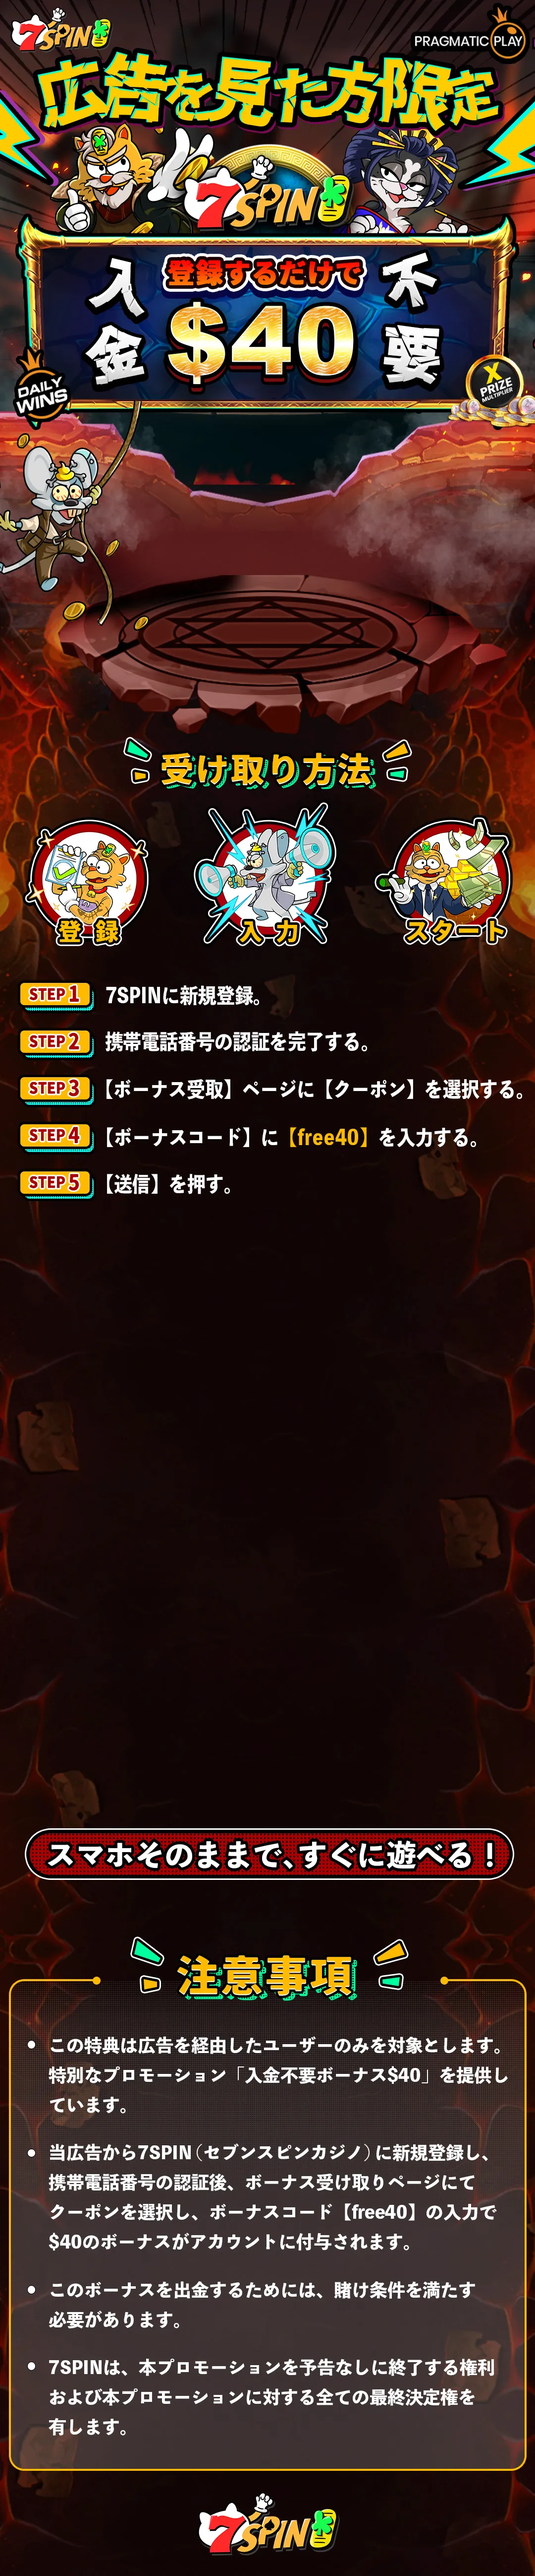
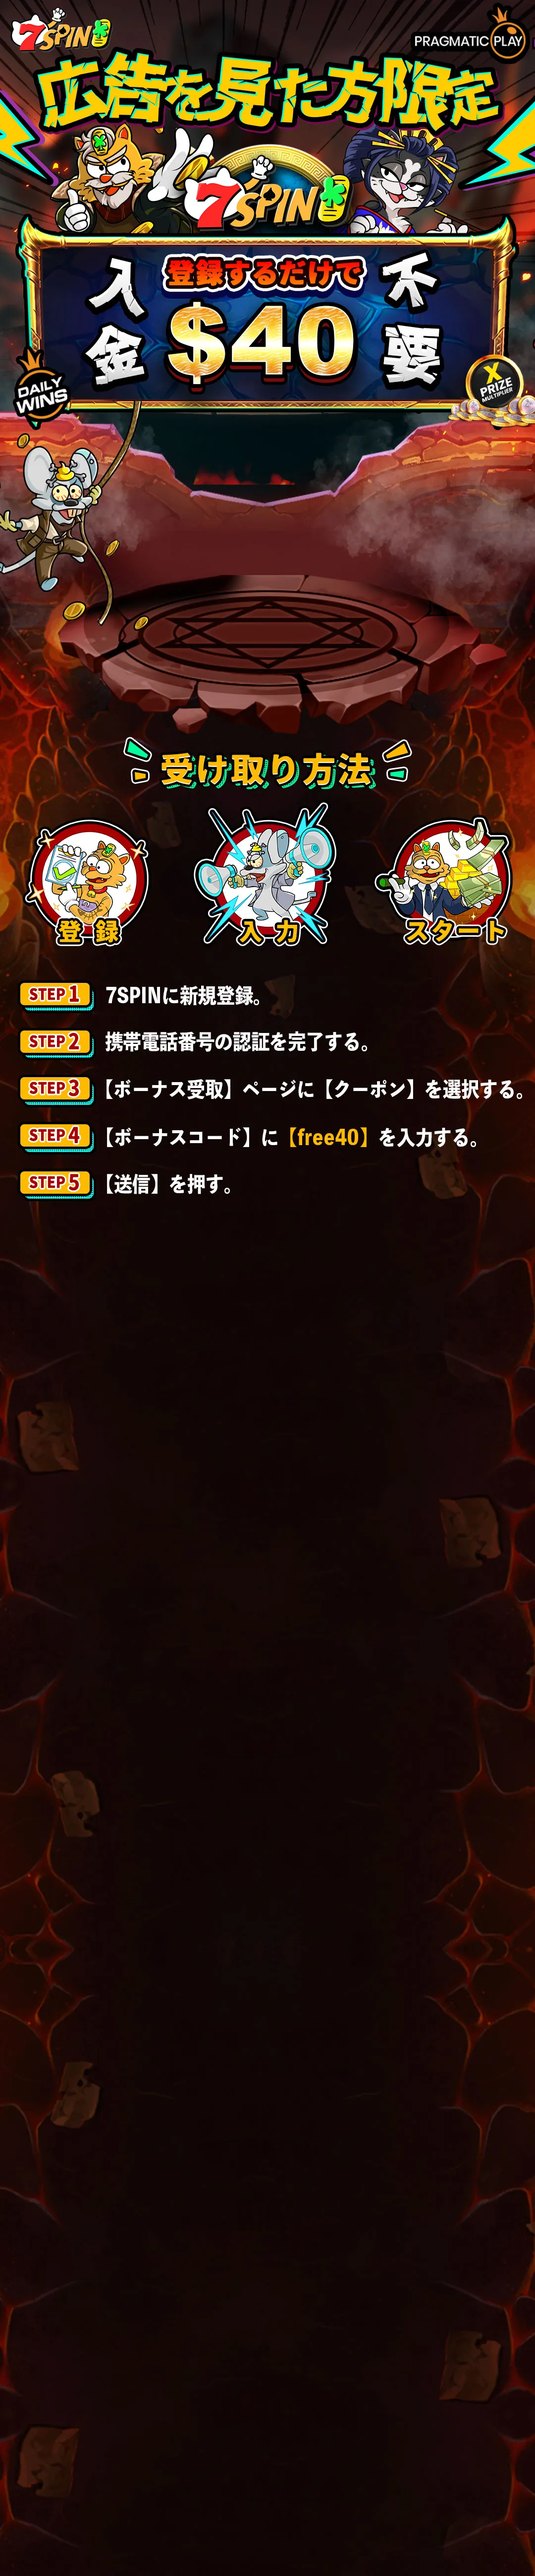
火山版 - 手機修正

Changed region(s): [[0.0, 0.6864, 1.0, 0.9985]]

diff --git a/winpera/av.@/20231019/index.html b/winpera/av.@/20231019/index.html
@@ -1,0 +1,134 @@
+<!DOCTYPE html>
+<html lang="en">
+<head>
+    <meta charset="UTF-8">
+    <meta http-equiv="X-UA-Compatible" content="IE=edge">
+    <meta name="viewport" content="width=devhttps://av.winpera.com/20230302/#post-8https://av.winpera.com/20230302/#post-8ice-width, initial-scale=1.0">
+    <link rel="icon" href="../images/photo_2023-03-07_11-45-42.jpg" type="image/x-icon">
+    <link rel="shortcut icon" href="../images/photo_2023-03-07_11-45-42.jpg" type="image/x-icon">
+    <title>紳士月台</title>
+    <meta property="og:title" content="歡迎你搭上紳士月台的列車" />
+    <meta property="og:description" content="我們每周都會為您推薦，各式各樣的主題影片。" />
+    <meta property="og:image" content="https://av.winpera.com/images/photo_2023-03-07_11-45-42.jpg" />
+    <link href="https://cdn.jsdelivr.net/npm/bootstrap@5.0.2/dist/css/bootstrap.min.css" rel="stylesheet" integrity="sha384-EVSTQN3/azprG1Anm3QDgpJLIm9Nao0Yz1ztcQTwFspd3yD65VohhpuuCOmLASjC" crossorigin="anonymous">
+</head>
+<body class="bg-dark">
+    <section class="container p-5">
+        <div class="row bg-light border rounded-3 p-3">
+            <div id="post-1" class="col-12 text-center mb-5">
+                <a href="https://jable.tv/videos/mide-950/"><img class="w-100 mb-2" src="images/第一部.jpg" alt=""></a>
+                <div class="card rounded-3">
+                    <a href="https://jable.tv/videos/mide-950/" class="card-body d-flex align-items-center justify-content-center text-decoration-none">
+                        紳士特快車
+                        <svg xmlns="http://www.w3.org/2000/svg" width="24" height="24" fill="currentColor" class="bi bi-play-fill" viewBox="0 0 16 16">
+                            <path d="m11.596 8.697-6.363 3.692c-.54.313-1.233-.066-1.233-.697V4.308c0-.63.692-1.01 1.233-.696l6.363 3.692a.802.802 0 0 1 0 1.393z"/>
+                        </svg>
+                    </a>
+                </div>
+            </div>
+            <div id="post-2" class="col-12 text-center mb-5">
+                <a href="https://jable.tv/videos/ssis-293/"><img class="w-100 mb-2" src="images/第二部.jpg" alt=""></a>
+                <div class="card rounded-3">
+                    <a href="https://jable.tv/videos/ssis-293/" class="card-body d-flex align-items-center justify-content-center text-decoration-none">
+                        紳士特快車
+                        <svg xmlns="http://www.w3.org/2000/svg" width="24" height="24" fill="currentColor" class="bi bi-play-fill" viewBox="0 0 16 16">
+                            <path d="m11.596 8.697-6.363 3.692c-.54.313-1.233-.066-1.233-.697V4.308c0-.63.692-1.01 1.233-.696l6.363 3.692a.802.802 0 0 1 0 1.393z"/>
+                        </svg>
+                    </a>
+                </div>
+            </div>
+            <div id="post-3" class="col-12 text-center mb-5">
+                <a href="https://jable.tv/videos/ssis-359/"><img class="w-100 mb-2" src="images/第三部.jpg" alt=""></a>
+                <div class="card rounded-3">
+                    <a href="https://jable.tv/videos/ssis-359/" class="card-body d-flex align-items-center justify-content-center text-decoration-none">
+                        紳士特快車
+                        <svg xmlns="http://www.w3.org/2000/svg" width="24" height="24" fill="currentColor" class="bi bi-play-fill" viewBox="0 0 16 16">
+                            <path d="m11.596 8.697-6.363 3.692c-.54.313-1.233-.066-1.233-.697V4.308c0-.63.692-1.01 1.233-.696l6.363 3.692a.802.802 0 0 1 0 1.393z"/>
+                        </svg>
+                    </a>
+                </div>
+            </div>
+            <div id="post-4" class="col-12 text-center mb-5">
+                <a href="https://jable.tv/videos/same-068/"><img class="w-100 mb-2" src="images/第四部.jpg" alt=""></a>
+                <div class="card rounded-3">
+                    <a href="https://jable.tv/videos/same-068/" class="card-body d-flex align-items-center justify-content-center text-decoration-none">
+                        紳士特快車
+                        <svg xmlns="http://www.w3.org/2000/svg" width="24" height="24" fill="currentColor" class="bi bi-play-fill" viewBox="0 0 16 16">
+                            <path d="m11.596 8.697-6.363 3.692c-.54.313-1.233-.066-1.233-.697V4.308c0-.63.692-1.01 1.233-.696l6.363 3.692a.802.802 0 0 1 0 1.393z"/>
+                        </svg>
+                    </a>
+                </div>
+            </div>
+            <div id="post-5" class="col-12 text-center mb-5">
+                <a href="https://jable.tv/videos/stars-813/"><img class="w-100 mb-2" src="images/第五部.jpg" alt=""></a>
+                <div class="card rounded-3">
+                    <a href="https://jable.tv/videos/stars-813/" class="card-body d-flex align-items-center justify-content-center text-decoration-none">
+                        紳士特快車
+                        <svg xmlns="http://www.w3.org/2000/svg" width="24" height="24" fill="currentColor" class="bi bi-play-fill" viewBox="0 0 16 16">
+                            <path d="m11.596 8.697-6.363 3.692c-.54.313-1.233-.066-1.233-.697V4.308c0-.63.692-1.01 1.233-.696l6.363 3.692a.802.802 0 0 1 0 1.393z"/>
+                        </svg>
+                    </a>
+                </div>
+            </div>
+            <div id="post-6" class="col-12 text-center mb-5">
+                <a href="https://jable.tv/videos/dldss-221/"><img class="w-100 mb-2" src="images/第六部.jpg" alt=""></a>
+                <div class="card rounded-3">
+                    <a href="https://jable.tv/videos/dldss-221/" class="card-body d-flex align-items-center justify-content-center text-decoration-none">
+                        紳士特快車
+                        <svg xmlns="http://www.w3.org/2000/svg" width="24" height="24" fill="currentColor" class="bi bi-play-fill" viewBox="0 0 16 16">
+                            <path d="m11.596 8.697-6.363 3.692c-.54.313-1.233-.066-1.233-.697V4.308c0-.63.692-1.01 1.233-.696l6.363 3.692a.802.802 0 0 1 0 1.393z"/>
+                        </svg>
+                    </a>
+                </div>
+            </div>
+            <div id="post-7" class="col-12 text-center mb-5">
+                <a href="https://jable.tv/videos/stars-568/"><img class="w-100 mb-2" src="images/第七部.jpg" alt=""></a>
+                <div class="card rounded-3">
+                    <a href="https://jable.tv/videos/stars-568/" class="card-body d-flex align-items-center justify-content-center text-decoration-none">
+                        紳士特快車
+                        <svg xmlns="http://www.w3.org/2000/svg" width="24" height="24" fill="currentColor" class="bi bi-play-fill" viewBox="0 0 16 16">
+                            <path d="m11.596 8.697-6.363 3.692c-.54.313-1.233-.066-1.233-.697V4.308c0-.63.692-1.01 1.233-.696l6.363 3.692a.802.802 0 0 1 0 1.393z"/>
+                        </svg>
+                    </a>
+                </div>
+            </div>
+            <div id="post-8" class="col-12 text-center mb-5">
+                <a href="https://www4.javhdporn.net/video/stars-915c/"><img class="w-100 mb-2" src="images/第八部.jpg" alt=""></a>
+                <div class="card rounded-3">
+                    <a href="https://www4.javhdporn.net/video/stars-915c/" class="card-body d-flex align-items-center justify-content-center text-decoration-none">
+                        紳士特快車
+                        <svg xmlns="http://www.w3.org/2000/svg" width="24" height="24" fill="currentColor" class="bi bi-play-fill" viewBox="0 0 16 16">
+                            <path d="m11.596 8.697-6.363 3.692c-.54.313-1.233-.066-1.233-.697V4.308c0-.63.692-1.01 1.233-.696l6.363 3.692a.802.802 0 0 1 0 1.393z"/>
+                        </svg>
+                    </a>
+                </div>
+            </div>
+            <div id="post-9" class="col-12 text-center mb-5">
+                <a href="https://njav.tv/zh/v/mxgs-1290"><img class="w-100 mb-2" src="images/第九部.jpg" alt=""></a>
+                <div class="card rounded-3">
+                    <a href="https://njav.tv/zh/v/mxgs-1290" class="card-body d-flex align-items-center justify-content-center text-decoration-none">
+                        紳士特快車
+                        <svg xmlns="http://www.w3.org/2000/svg" width="24" height="24" fill="currentColor" class="bi bi-play-fill" viewBox="0 0 16 16">
+                            <path d="m11.596 8.697-6.363 3.692c-.54.313-1.233-.066-1.233-.697V4.308c0-.63.692-1.01 1.233-.696l6.363 3.692a.802.802 0 0 1 0 1.393z"/>
+                        </svg>
+                    </a>
+                </div>
+            </div>
+            <div id="post-10" class="col-12 text-center">
+                <a href="https://javday.tv/videos/DLDSS227/"><img class="w-100 mb-2" src="images/第十部.jpg" alt=""></a>
+                <div class="card rounded-3">
+                    <a href="https://javday.tv/videos/DLDSS227/" class="card-body d-flex align-items-center justify-content-center text-decoration-none">
+                        紳士特快車
+                        <svg xmlns="http://www.w3.org/2000/svg" width="24" height="24" fill="currentColor" class="bi bi-play-fill" viewBox="0 0 16 16">
+                            <path d="m11.596 8.697-6.363 3.692c-.54.313-1.233-.066-1.233-.697V4.308c0-.63.692-1.01 1.233-.696l6.363 3.692a.802.802 0 0 1 0 1.393z"/>
+                        </svg>
+                    </a>
+                </div>
+            </div>
+        </div>
+    </section>
+
+    <script src="https://cdn.jsdelivr.net/npm/@popperjs/core@2.10.1/dist/umd/popper.min.js" integrity="sha384-W8fXfP3gkOKtndU4JGtKDvXbO53Wy8SZCQHczT5FMiiqmQfUpWbYdTil/SxwZgAN" crossorigin="anonymous"></script>
+    <script src="https://cdn.jsdelivr.net/npm/bootstrap@5.1.1/dist/js/bootstrap.min.js" integrity="sha384-skAcpIdS7UcVUC05LJ9Dxay8AXcDYfBJqt1CJ85S/CFujBsIzCIv+l9liuYLaMQ/" crossorigin="anonymous"></script>
+</body>
+</html>

diff --git a/7sipn.online/bakusai.@/NA7_LP_hell/css/mobile.css b/7sipn.online/bakusai.@/NA7_LP_hell/css/mobile.css
@@ -25,7 +25,7 @@ section{
 }
 
 .page-2{
-    padding-bottom: 104vw;
+    padding-bottom: 100vw;
 }
 .img-title-step{
     top: -3%;
@@ -93,6 +93,28 @@ section{
     top: 0%;
     left: 5%;
     width: 90%;
+}
+
+.page-4{
+    padding-bottom: 160vw;
+}
+.page-4 .phone-text{
+    display: block;
+    top: 5%;
+    left: 5%;
+    width: 90%;
+}
+.page-4 .notice-text{
+    display: block;
+    top: 13%;
+    left: 0%;
+    width: 100%;
+}
+.page-4 .logo{
+    display: block;
+    top: 80%;
+    left: calc(50% - 90px);
+    width: 180px;
 }
 
 @keyframes coin01 {

diff --git a/7sipn.online/bakusai.@/NA7_LP_hell/css/pc.css b/7sipn.online/bakusai.@/NA7_LP_hell/css/pc.css
@@ -240,6 +240,10 @@ section{
     width: 100%;
     padding-bottom: 55vw;
 }
+.page-4 .phone-text{ display: none;}
+.page-4 .notice-text{ display: none;}
+.page-4 .logo{ display: none;}
+
 @keyframes coin01 {
     0%{top: 50%;left: 50%; transform: translate( -50%, -50%) rotateZ(70deg) scale(0);opacity: 0;}
     100%{top: 18%; left: 2%; transform: translate( -50%, -50%) rotateZ(70deg) scale(1);opacity: 1;}

diff --git a/7sipn.online/bakusai.@/NA7_LP_hell/index.html b/7sipn.online/bakusai.@/NA7_LP_hell/index.html
@@ -79,6 +79,9 @@
 
         </div>
         <div class="page page-4">
+            <img class="phone-text" src="./assets/img_phone_text.webp" alt="">
+            <img class="notice-text" src="./assets/img_notice_text.webp" alt="">
+            <img class="logo" src="./assets/img_logo.webp" alt="">
         </div>
     </section>
 
